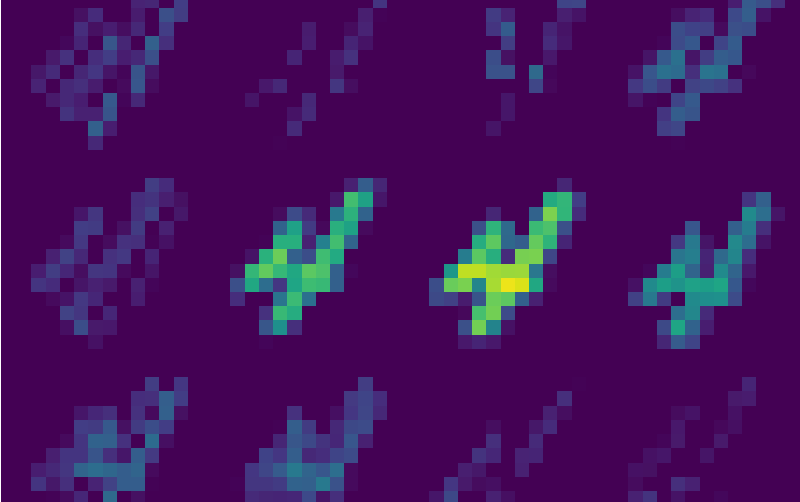
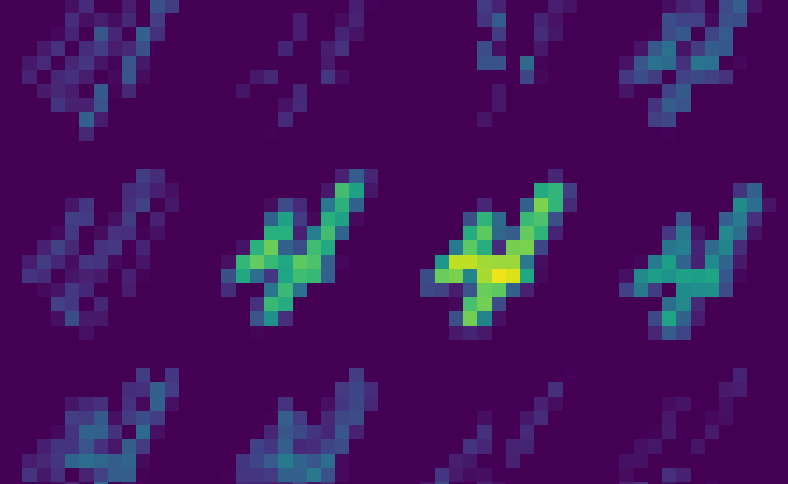
add escher and einsum

diff --git a/index.php b/index.php
@@ -12,6 +12,7 @@
         <style>
             :root {
                 font-family: monospace;
+                color-scheme: light dark;
             }
             h1 {
                 display: flex;
@@ -122,6 +123,21 @@
                 align-items: center;
                 gap: 1ex;
             }
+            @media (prefers-color-scheme: dark) {
+              article {
+                color: white;
+                background-color: #101010;
+              }
+              a:link, a:visited  {
+                  color: #ff87a7
+              }
+              .media-icon {
+                  color: #fff;
+              }
+              main > footer {
+                border-top: 2px solid #333;
+            }
+            }
         </style>
     </head>
     <body>
@@ -200,7 +216,7 @@
                     href="https://livebook.dev/run?url=<?php echo urlencode($livebook->url); ?>"
                 >
                     <img
-                        src="https://livebook.dev/badge/v1/blue.svg"
+                        src="blue.svg"
                         alt="Run in Livebook"
                     />
                 </a>